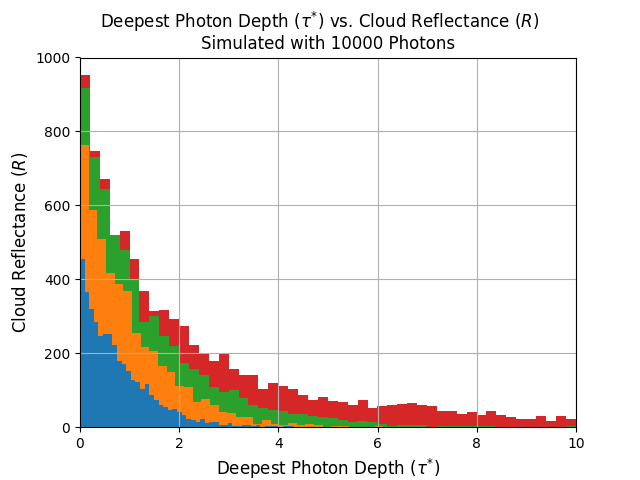
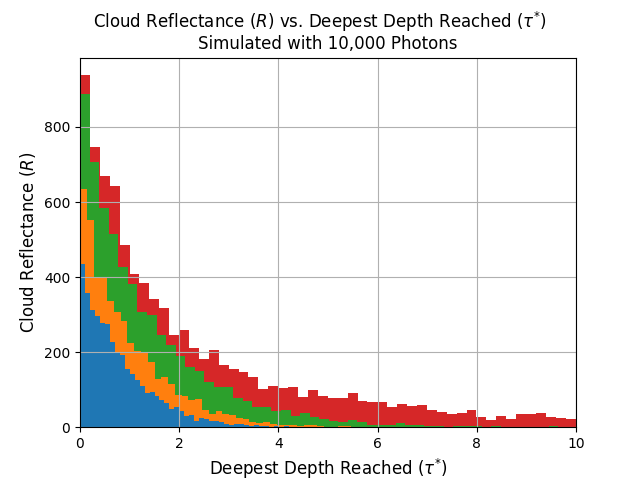
Fixed graph labels.

diff --git a/Solutions/Assignment 04 - Homework 4/HW4_Erick_Shepherd.py b/Solutions/Assignment 04 - Homework 4/HW4_Erick_Shepherd.py
@@ -118,7 +118,7 @@ def question1():
     xlabel = r"Cloud Optical Thickness ($\tau$)"
     ylabel = r"Cloud Reflectance ($R$)"
         
-    plt.suptitle(r"{} vs. {}".format(xlabel, ylabel))
+    plt.suptitle(r"{} vs. {}".format(ylabel, xlabel))
     plt.title("Simulated with {} Photons".format(N_photons))
     plt.xlabel(xlabel, fontsize = "large")
     plt.ylabel(ylabel, fontsize = "large")
@@ -152,11 +152,11 @@ def question2():
         MDR_reflected = MCRT(COT, SSA, SZA, N_photons)["MDR reflected"]
         plt.hist(MDR_reflected, bins = 50, label = label, zorder = -index)
         
-    xlabel = r"Deepest Photon Depth (${\tau}^{*}$)"
+    xlabel = r"Deepest Depth Reached (${\tau}^{*}$)"
     ylabel = r"Cloud Reflectance ($R$)"
         
-    plt.suptitle(r"{} vs. {}".format(xlabel, ylabel))
-    plt.title("Simulated with {} Photons".format(N_photons))
+    plt.suptitle(r"{} vs. {}".format(ylabel, xlabel))
+    plt.title("Simulated with {:,} Photons".format(N_photons))
     plt.xlabel(xlabel, fontsize = "large")
     plt.ylabel(ylabel, fontsize = "large")
     plt.xlim(0, COT)
